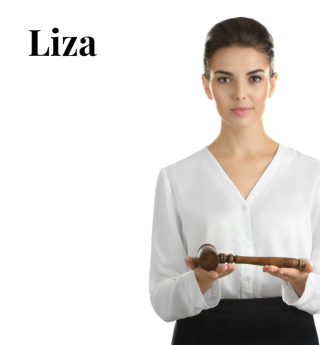
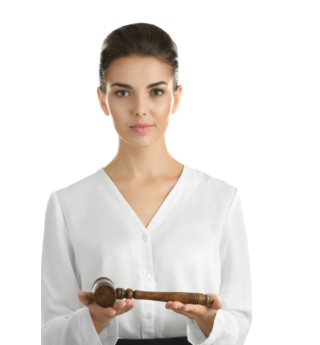
Add right dimensions to the boxes in the arena section and add background images to the cards

diff --git a/index.html b/index.html
@@ -92,20 +92,20 @@
             <div class="arena-row">
                 <div class="col-1-of-3">
                     <div class="card">
-                        <img src="assets/images/daniela.png" alt="Daniela's image">
+                        DANIELA
                     </div>                    
                 </div>
                 <div class="col-1-of-3">
                     <div class="video">
-                        <iframe width="350" height="215" src="https://www.youtube.com/embed/hsUG72uv0Pg"
+                        <iframe width="330" height="185" src="https://www.youtube.com/embed/hsUG72uv0Pg"
                             title="YouTube video player" frameborder="0" allow="accelerometer; autoplay; 
                         clipboard-write; encrypted-media; gyroscope; picture-in-picture; web-share"
                             allowfullscreen></iframe>
                     </div>
                 </div>
                 <div class="col-1-of-3-last">
-                    <div class="card">
-                        <img src="assets/images/liza.png" alt="elizabeth's image">
+                    <div class="card-2">
+                        
                     </div>
                 </div>
             </div>

diff --git a/assets/css/style.css b/assets/css/style.css
@@ -252,6 +252,7 @@ body {
     margin-right: 6rem;
     padding: 5rem .7rem;
     float: left;
+    
 }
 
 .col-1-of-3-last {
@@ -259,12 +260,14 @@ body {
     text-align: center;
     padding: 5rem .7rem;
     float: left;
+    
 }
 
 .col-2-of-3 {
     width: calc(2 * ((100% - 2 * 6rem) / 3) + 6rem);
     float: right;
     text-align: center;
+    
 }
 
 .heading2 {
@@ -311,19 +314,35 @@ body {
 .card {
     perspective: 150rem;
     -moz-perspective: 150rem;
-    background-color: #D6E3F8;
     height: 35rem;
     border: .3rem solid #D6E3F8;
     transition: all 3s ease;
+    background-image: url(../images/dani.png);
+    object-fit: contain;
+}
+
+.card-2 {
+    perspective: 150rem;
+    -moz-perspective: 150rem;
+    height: 35rem;
+    border: .3rem solid #D6E3F8;
+    transition: all 3s ease;
+    background-image: url(../images/liza.png);
+    object-fit: contain;
 }
 
 .card:hover {
     transform: rotateY(180deg);
 }
 
+.card-2:hover {
+    transform: rotateY(180deg);
+}
+
 .video {
     height: 20rem;
     margin-top: 8rem;
+    object-fit: contain;
 }
 
 /* forth section - Quiz */
